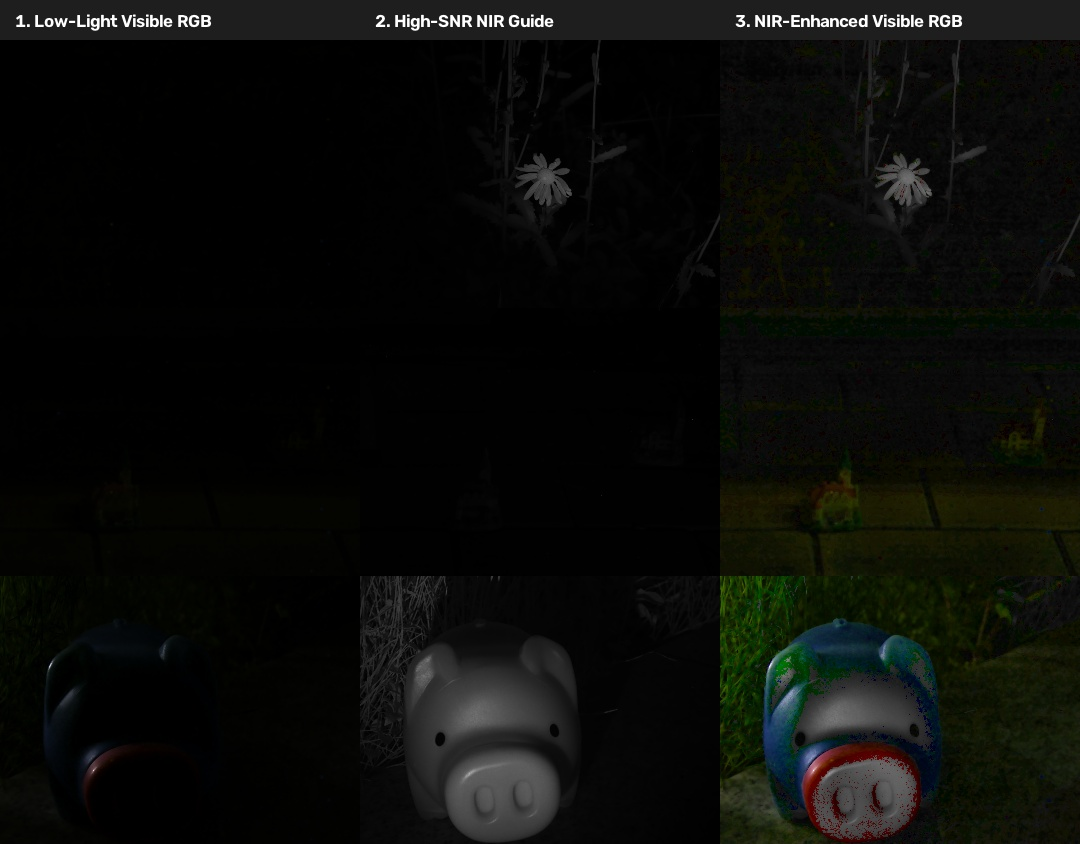
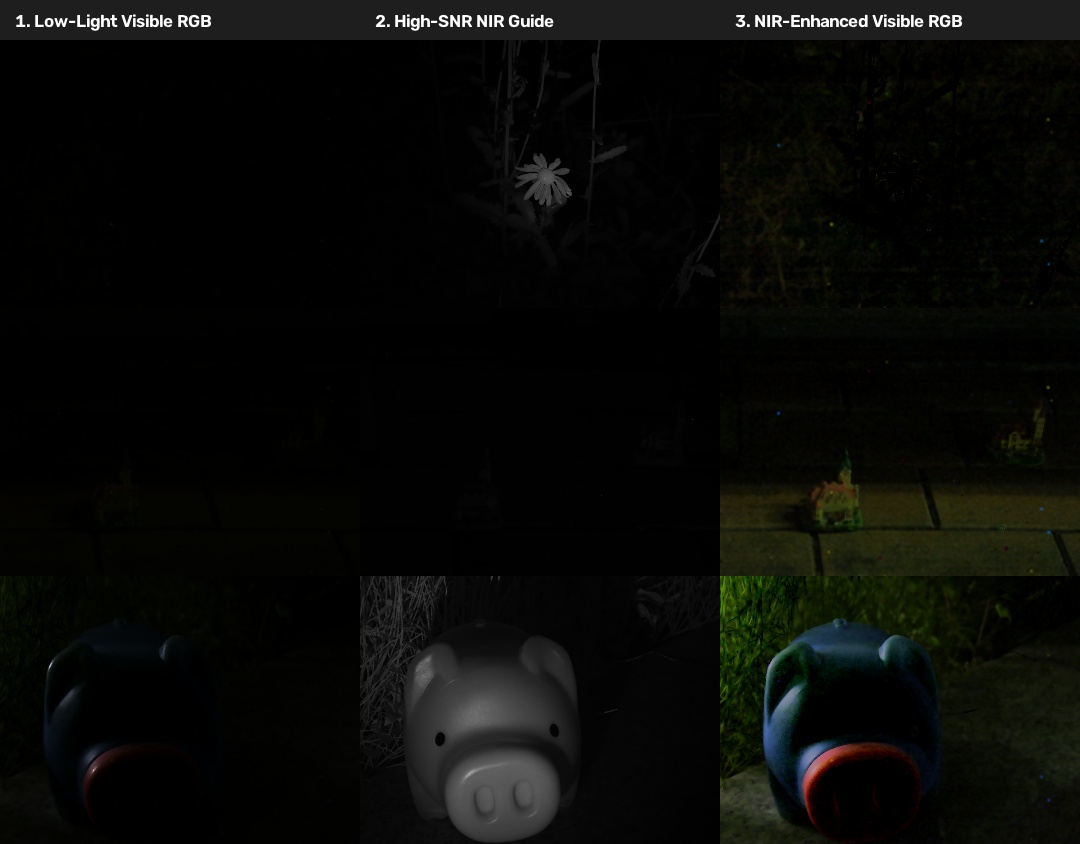
Fix artifact-free low light enhancement with smooth floating point scale ratioing

diff --git a/python/cmyg_separation/lowlight_enhancement.py b/python/cmyg_separation/lowlight_enhancement.py
@@ -7,45 +7,50 @@ import numpy as np
 import cv2
 from .denoising import guided_filter
 
-def enhance_lowlight_image(rgb_img, nir_img, alpha=0.4, beta=0.6, gamma=0.7):
+def enhance_lowlight_image(rgb_img, nir_img, alpha=0.5, gamma=0.45, eps=0.04):
     """
-    Enhance a low-light visible RGB image using high-SNR NIR detail & luminance guidance.
-    Uses HSV color space luminance fusion for smooth, artifact-free low-light enhancement.
+    Artifact-Free NIR-Assisted Low-Light Visible RGB Enhancement.
+    Operates in pure floating-point color space with smooth scale ratioing to prevent noise specks.
     
     Args:
         rgb_img: Low-light visible RGB image (float64 [0, 1])
-        nir_img: Corresponding NIR image (float64 [0, 1])
-        alpha: Base visible intensity weight
-        beta: NIR luminance boost weight
-        gamma: Dark region gamma factor
+        nir_img: High-SNR NIR image (float64 [0, 1])
+        alpha: Weight for NIR luminance fusion [0.3 - 0.7]
+        gamma: Gamma correction factor for low-light visible luminance
+        eps: Epsilon parameter to prevent zero-division & dark noise specks
     
     Returns:
-        enhanced_rgb: High-contrast, detail-enhanced RGB image (float64 [0, 1])
+        enhanced_rgb: Smooth, high-contrast, detail-enhanced RGB image (float64 [0, 1])
     """
-    rgb_float = np.clip(rgb_img.astype(np.float64), 0.0, 1.0)
-    nir_float = np.clip(nir_img.astype(np.float64), 0.0, 1.0)
+    rgb = np.clip(rgb_img.astype(np.float64), 0.0, 1.0)
+    nir = np.clip(nir_img.astype(np.float64), 0.0, 1.0)
     
-    # 1. Base intensity and guided NIR detail extraction
-    intensity = np.mean(rgb_float, axis=2)
-    nir_base = guided_filter(intensity, nir_float, radius=8, eps=1e-3)
-    nir_detail = nir_float - nir_base
+    # 1. Calculate Visible Luminance (Rec. 601 / Rec. 709 weights)
+    v_vis = 0.299 * rgb[:, :, 0] + 0.587 * rgb[:, :, 1] + 0.114 * rgb[:, :, 2]
     
-    # 2. Enhanced Luminance V
-    v_fused = np.power(intensity, gamma) + beta * nir_base + 0.5 * nir_detail
-    v_fused = np.clip(v_fused, 0.0, 1.0)
+    # 2. Stretch low-light visible luminance using 99th percentile normalization
+    p99 = np.percentile(v_vis, 99)
+    if p99 > 0:
+        v_norm = np.clip(v_vis / p99, 0.0, 1.0)
+    else:
+        v_norm = v_vis
+        
+    v_gamma = np.power(v_norm, gamma)
     
-    # 3. CLAHE Contrast Equalization
-    v_uint8 = (v_fused * 255.0).astype(np.uint8)
-    clahe = cv2.createCLAHE(clipLimit=1.8, tileGridSize=(8, 8))
-    v_clahe = clahe.apply(v_uint8).astype(np.float64) / 255.0
+    # 3. High-frequency NIR Detail extraction using Guided Filter
+    nir_base = guided_filter(v_vis, nir, radius=8, eps=1e-3)
+    nir_detail = nir - nir_base
     
-    # 4. Color space HSV reconstruction
-    rgb_uint8 = (rgb_float * 255.0).astype(np.uint8)
-    hsv = cv2.cvtColor(rgb_uint8, cv2.COLOR_RGB2HSV).astype(np.float64) / 255.0
+    # 4. Target Luminance Fusion (Combine Gamma-boosted Visible + High-SNR NIR Base & Detail)
+    v_target = (1.0 - alpha) * v_gamma + alpha * nir + 0.5 * nir_detail
+    v_target = np.clip(v_target, 0.0, 1.0)
     
-    # Preserve original saturation S and hue H, boost V
-    hsv[:, :, 2] = v_clahe
-    hsv[:, :, 1] = np.clip(hsv[:, :, 1] * 1.2, 0.0, 1.0) # Subtle saturation boost
+    # 5. Smooth Chromaticity Scale Ratio (eps prevents dark noise specks & color clipping)
+    scale = (v_target + eps) / (v_vis + eps)
     
-    enhanced_rgb = cv2.cvtColor((hsv * 255.0).astype(np.uint8), cv2.COLOR_HSV2RGB).astype(np.float64) / 255.0
-    return np.clip(enhanced_rgb, 0.0, 1.0)
+    # 6. Apply Scale Ratio to RGB channels
+    enhanced = np.zeros_like(rgb)
+    for c in range(3):
+        enhanced[:, :, c] = np.clip(rgb[:, :, c] * scale, 0.0, 1.0)
+        
+    return enhanced
